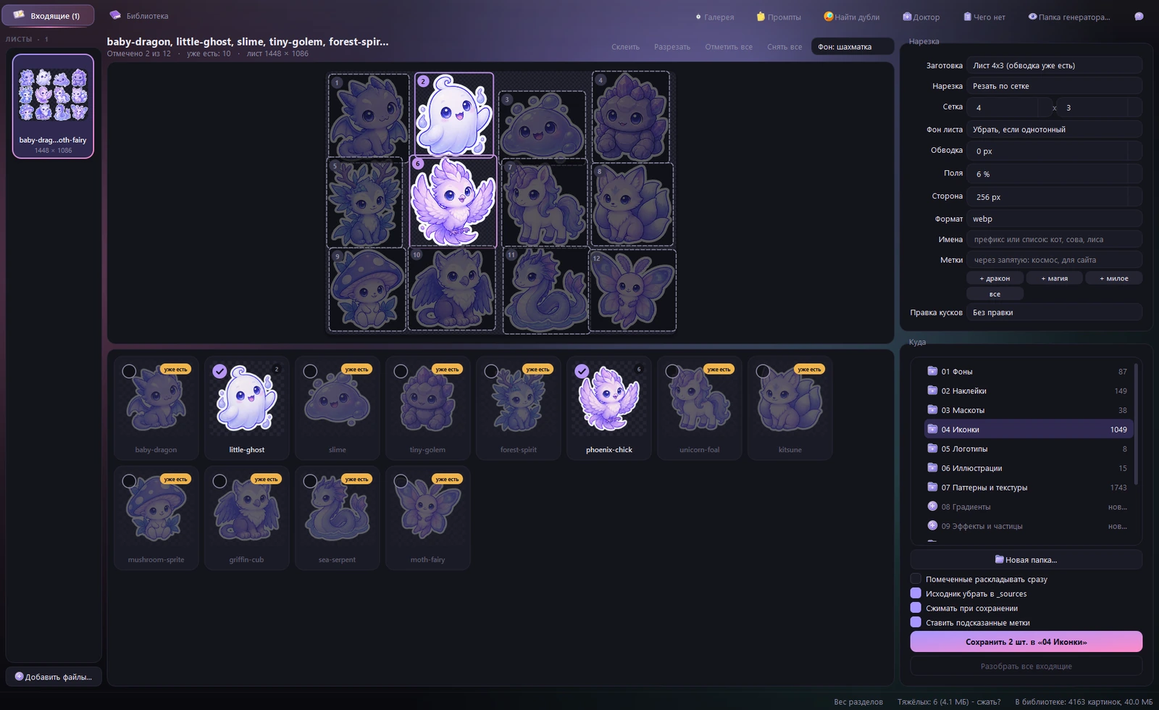
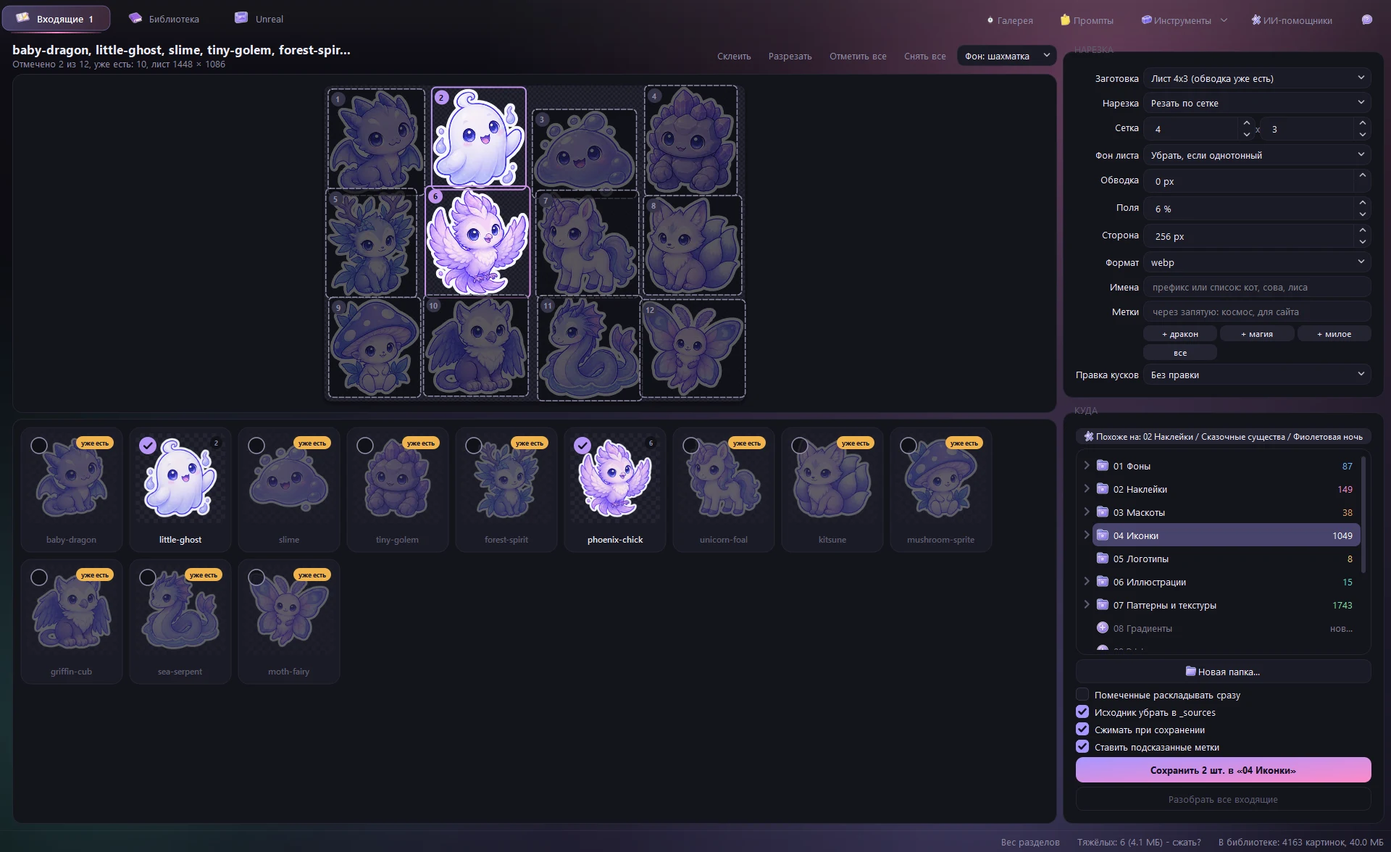
README: новые снимки окна (вкладка Unreal, 3D-просмотр, комната, палитра, светлая тема), три вкладки, 64 теста, что уходит в сеть

Changed region(s): [[0.0, 0.0, 1.0, 1.0]]

diff --git a/README.md b/README.md
@@ -10,18 +10,20 @@
 
 Нарезка листов 4x3 с предпросмотром, раскладка по разделам и палитрам, поиск по смыслу на русском<br>
 подсказка меток и раздела, умные папки, нейросети: любой фон прочь, чёткое увеличение x4<br>
-ИИ-помощники (Claude, Cursor) ищут, смотрят и правят картинки - всё видно в окне и отменяется
+ИИ-помощники (Claude, Cursor) ищут, смотрят и правят картинки - всё видно в окне и отменяется<br>
+вкладка «Unreal»: текстуры, HDRI, модели и свет для Unreal Engine с просмотром в 3D
 
 [![CI](https://github.com/moonlivedt-oss/photosMOONprojects/actions/workflows/ci.yml/badge.svg)](https://github.com/moonlivedt-oss/photosMOONprojects/actions/workflows/ci.yml)
 ![version](https://img.shields.io/badge/version-2.3.0-cba6f7)
 ![python](https://img.shields.io/badge/Python-3.14-3776AB?logo=python&logoColor=white)
 ![qt](https://img.shields.io/badge/PyQt6-окно-41CD52?logo=qt&logoColor=white)
-![tests](https://img.shields.io/badge/тесты-53%20ok-a6e3a1)
-![images](https://img.shields.io/badge/картинок-4160-89b4fa)
+![tests](https://img.shields.io/badge/тесты-64%20ok-a6e3a1)
+![images](https://img.shields.io/badge/картинок-4163-89b4fa)
+![unreal](https://img.shields.io/badge/Unreal-ассеты%20CC0-313244)
 ![mcp](https://img.shields.io/badge/MCP-ИИ--помощники-d97757)
 ![license](https://img.shields.io/badge/код-MIT-green)
 
-<img src="_docs/screenshots/hero.webp" alt="Окно библиотеки: дерево разделов слева, плитки наклеек в середине, справа просмотр дракончика с цветами и подсказкой метки" width="880">
+<img src="_docs/screenshots/hero.webp" alt="Окно библиотеки: слева карточки быстрого доступа и дерево разделов с цветными числами, в середине плитки сказочных наклеек с розовой чертой раздела, справа дракончик крупно, его цвета и подсказка метки «дракон»" width="880">
 
 <sub>Одна папка, окно на PyQt6, ядро на Pillow и numpy, поиск по смыслу через onnxruntime</sub>
 
@@ -36,12 +38,12 @@ py -3.14 -m pip install PyQt6 pillow numpy onnxruntime
 py -3.14 _tools/get_models.py      # модели нейросетей, ~460 МБ, один раз (можно частями: clip, bg, upscale)
 ```
 
-Затем запусти **`Library.cmd`** - откроется окно с двумя вкладками: «Входящие» и «Библиотека».
+Затем запусти **`Library.cmd`** - откроется окно с тремя вкладками: «Входящие», «Библиотека» и «Unreal».
 
 Отдельно:
 
 ```bash
-_tools\run-tests.cmd                            # все тесты (53 проверки, окно не открывается)
+_tools\run-tests.cmd                            # все тесты (64 проверки, окно не открывается)
 py -3.14 _tools/cli.py gallery                  # пересобрать Gallery.html - вся библиотека в браузере
 py -3.14 _tools/cli.py cut лист.png --grid 4x3  # нарезать лист без окна
 ```
@@ -114,18 +116,23 @@ py -3.14 _tools/cli.py cut лист.png --grid 4x3  # нарезать лист 
 ---
 
 <div align="center">
-<img src="_docs/screenshots/inbox.webp" alt="Вкладка «Входящие»: лист 4x3 с рамками кусков, ниже куски с отметками «уже есть», справа настройки нарезки и подсказки меток «дракон, магия, милое»" width="820">
+<img src="_docs/screenshots/inbox.webp" alt="Вкладка «Входящие»: лист 4x3 сказочных существ с рамками кусков, десять кусков помечены «уже есть», отмечены только два новых, справа настройки нарезки, подсказки меток «дракон, магия, милое» и «Похоже на: 02 Наклейки / Сказочные существа»" width="820">
 <br><sub>Входящие: лист режется по сетке, повторы помечены «уже есть», справа - подсказанные метки</sub>
 </div>
 
 <div align="center">
-<img src="_docs/screenshots/semantic.webp" alt="Поиск по смыслу «уютная ночная улица с фонарями»: 17 ночных сцен, справа выбранный ночной рынок с фонарями и подсказки меток" width="820">
-<br><sub>Поиск по смыслу: в именах файлов нет ни «уютной», ни «улицы»</sub>
+<img src="_docs/screenshots/semantic.webp" alt="Поиск по смыслу «уютная ночная улица с фонарями»: сверху полоса из пяти подходящих ассетов Unreal (HDRI ночных улиц и уличный фонарь), ниже 17 ночных сцен, справа дождливая неоновая улица и подсказки меток «дождь, улица, город, ночь»" width="820">
+<br><sub>Поиск по смыслу: в именах файлов нет ни «уютной», ни «улицы»; сверху - подходящие ассеты Unreal</sub>
 </div>
 
 <div align="center">
-<img src="_docs/screenshots/sets.webp" alt="Вид «Наборы»: 24 набора обложками по 12 картинок с числом палитр" width="820">
+<img src="_docs/screenshots/sets.webp" alt="Вид «Наборы»: наборы обложками по 12 картинок, в подписи число палитр и картинок" width="820">
 <br><sub>Наборы: каждый набор одной обложкой, в подписи - палитры и число картинок</sub>
+</div>
+
+<div align="center">
+<img src="_docs/screenshots/light.webp" alt="Светлая тема: та же библиотека на светлом фоне, плитки морских наклеек, справа рыба-клоун крупно" width="820">
+<br><sub>Светлая тема и акцент на выбор: «Инструменты» -> «Оформление», меняется сразу</sub>
 </div>
 
 ---
@@ -148,6 +155,11 @@ py -3.14 _tools/cli.py cut лист.png --grid 4x3  # нарезать лист 
 разница, SSIM), **векторизация в SVG** (три варианта рядом), **оформление** - тёмная или светлая тема и
 акцент на выбор.
 
+<div align="center">
+<img src="_docs/screenshots/palette.webp" alt="Окно «Палитра из картинки»: слева образец - ночной рынок с фонарями и шесть его цветов, справа двенадцать лесных зверей, перекрашенных в эти фиолетово-розовые цвета" width="760">
+<br><sub>Палитра из картинки: цвета ночной сцены, и лесные звери сразу в них перекрашены</sub>
+</div>
+
 ### Горячие клавиши (все - в справке, F1)
 
 | Клавиши | Действие |
@@ -165,6 +177,11 @@ py -3.14 _tools/cli.py cut лист.png --grid 4x3  # нарезать лист 
 | `F1` | справка: всё, что умеет окно, с поиском |
 
 ## Ассеты для Unreal Engine
+
+<div align="center">
+<img src="_docs/screenshots/unreal.webp" alt="Вкладка «Unreal»: слева карточки видов (текстуры, HDRI, модели, свет IES) с числом и весом и темы «Дом» по назначению, в середине 43 стула и кресла карточками, справа выбранный стул вращается в живом 3D и подсказка «Как в Unreal»" width="820">
+<br><sub>Вкладка «Unreal»: «Дом» по назначению, живой 3D справа, плитку можно бросить прямо в Content Browser</sub>
+</div>
 
 Вкладка **«Unreal»** (Ctrl+3) - отдельная полка для 3D: она не смешивается с картинками библиотеки.
 Всё лежит в `_Unreal/<вид>/<тема>/<имя>/`: файлы ассета, `preview.webp` и `asset.json` (источник,
@@ -226,6 +243,21 @@ PyQt6, отдельно ставить ничего не надо). Слева -
 | **Свет** | модель и текстура освещаются любым скачанным HDRI (студийный - по умолчанию), небо фоном, яркость, поворот |
 
 «Снимок» сохраняет то, что видно, в PNG.
+
+<div align="center">
+<img src="_docs/screenshots/viewer-texture.webp" alt="Просмотр в 3D: текстура кирпича с мхом на шаре со светом и тенью, слева лента ассетов, справа фигура, карты по отдельности (цвет, нормаль, шероховатость, металл, AO, высота), свет и сведения" width="49%">
+<img src="_docs/screenshots/viewer-model.webp" alt="Просмотр в 3D: деревянный стул на полу с тенью, справа примерка текстуры, свет и подсказка «Как в Unreal»" width="49%">
+<br><sub>Просмотр в 3D: текстура на шаре и каждая карта отдельно; модель на полу с тенью</sub>
+</div>
+
+**Комната** (подборка -> «Комната» или правый щелчок -> «Собрать комнату из выбранного»): мебель расставляется
+в комнате в настоящем масштабе, пол и стены - из скачанных текстур, свет - из HDRI; «Расставить иначе»,
+снимок и импорт в Unreal разом.
+
+<div align="center">
+<img src="_docs/screenshots/room.webp" alt="Комната: пол из ковролина, три стены из бетона, в комнате кровать, скамья, столик, канделябры и стулья, вверху выбор пола, стен и света" width="760">
+<br><sub>Черновик интерьера перед Unreal: восемь моделей, комната 6,1 x 7,1 м</sub>
+</div>
 
 Темы: лес и природа, город, интерьер, индустрия и sci-fi, средневековье и фэнтези, пустыня и скалы, зима,
 ночь и закат, студия; модели для дома - отдельными темами «Дом - мебель», «кухня и посуда», «декор»,
@@ -400,21 +432,30 @@ _tools/
     signatures.py       отпечатки: «уже есть», похожие, цвет, дубли
     sorting.py          заготовки нарезки, метки в имени, запись в разделы
     prompts.py          данные Prompts.html (через node)
+    unreal.py           ассеты Unreal: темы, Poly Haven, ambientCG, Kenney, Quaternius, загрузка на место
+    unreal_sem.py       поиск по смыслу по ассетам; unreal_extra.py - цвета превью и проверка ассетов
+    unreal_import.py    копия файлов и import_to_unreal.py (настройки текстур, материал M_<имя>)
+    fbx_colors.py       цвета материалов Quaternius из .mtl прямо в FBX
   ui/                   окно (PyQt6)
     main_window.py      главное окно, отмена/возврат, приём файлов, main()
     inbox_tab.py        вкладка «Входящие»
     library_tab.py      вкладка «Библиотека», быстрый просмотр, умные папки, поиск по картинке
     semantic.py, signatures.py - то же, что в library, но досчёт в фоне
+    unreal_tab.py       вкладка «Unreal»; unreal_nav.py, unreal_tiles.py, unreal_catalog.py - панель, карточки, каталог
+    viewer3d.py + .qml  просмотр в 3D на Qt Quick 3D; room3d.py + .qml - комната; render_previews.py - превью моделей
+    tools_dialogs.py    палитра из картинки, сравнение двух картинок, векторизация, оформление
     agents.py           окно «ИИ-помощники»; help.py - справка
     editor.py, compress.py, export.py, dupes.py, weight.py, doctor.py, missing.py - окна действий
     widgets.py, thumbnails.py, animations.py, theme.py, common.py - общее для окна
   tests/                unittest: эталонные листы, нарезка, правка, база, метки, CLIP;
-                        test_api.py - операции для помощников и протокол MCP на временной библиотеке
+                        test_api.py - операции для помощников и протокол MCP на временной библиотеке;
+                        test_unreal.py, test_fbx_colors.py - ассеты Unreal без сети
   cli/                  .cmd для перетаскивания файлов
 ```
 
 Не в репозитории (`.gitignore`): `_tools/_models` (модели), `_tools/_thumbs` (кэш миниатюр),
-`_tools/library.db` (база этого компьютера), `_tools/settings.json`, `Gallery.html`, `_tools/done.js`.
+`_tools/library.db` (база этого компьютера), `_tools/settings.json`, `Gallery.html`, `_tools/done.js`,
+`_tools/_ui` (стрелки стилей - окно пишет их цветом темы), `_Unreal/` и кэши `_tools/_unreal_*`.
 
 </details>
 
@@ -435,8 +476,10 @@ _tools/
 
 ## Приватность
 
-Окно **не ходит в сеть**: картинки, метки, поиск по смыслу - всё считается на этом компьютере.
-Сеть нужна только один раз - `get_models.py` качает модели с Hugging Face и GitHub. Ничего не отправляется.
+Картинки библиотеки **не уходят в сеть**: метки, поиск по смыслу, правка - всё считается на этом компьютере.
+Сеть нужна в двух случаях, и оба - только скачивание: `get_models.py` один раз качает модели с Hugging Face
+и GitHub, а вкладка «Unreal» по кнопкам «Скачать ещё...», «Каталог...» и «Перекачать» берёт ассеты с Poly Haven,
+ambientCG, Kenney и открытых папок Quaternius на Google Drive. Ничего из библиотеки не отправляется.
 
 Сервер для помощников тоже работает локально и сам ничего не отправляет. Но то, что помощник
 смотрит (`view`, предпросмотр правки) или читает (имена, метки), уходит его модели - как любой

diff --git a/README.en.md b/README.en.md
@@ -10,18 +10,20 @@
 
 4x3 sheet cutting with preview, filing by section and palette, semantic search in Russian and English<br>
 tag and folder suggestions, smart folders, neural background removal and x4 upscaling<br>
-AI assistants (Claude, Cursor) search, view and edit pictures - every change shows up in the window and can be undone
+AI assistants (Claude, Cursor) search, view and edit pictures - every change shows up in the window and can be undone<br>
+an "Unreal" tab: textures, HDRIs, models and lights for Unreal Engine with a 3D viewer
 
 [![CI](https://github.com/moonlivedt-oss/photosMOONprojects/actions/workflows/ci.yml/badge.svg)](https://github.com/moonlivedt-oss/photosMOONprojects/actions/workflows/ci.yml)
 ![version](https://img.shields.io/badge/version-2.3.0-cba6f7)
 ![python](https://img.shields.io/badge/Python-3.14-3776AB?logo=python&logoColor=white)
 ![qt](https://img.shields.io/badge/PyQt6-window-41CD52?logo=qt&logoColor=white)
-![tests](https://img.shields.io/badge/tests-53%20ok-a6e3a1)
-![images](https://img.shields.io/badge/pictures-4160-89b4fa)
+![tests](https://img.shields.io/badge/tests-64%20ok-a6e3a1)
+![images](https://img.shields.io/badge/pictures-4163-89b4fa)
+![unreal](https://img.shields.io/badge/Unreal-CC0%20assets-313244)
 ![mcp](https://img.shields.io/badge/MCP-AI%20assistants-d97757)
 ![license](https://img.shields.io/badge/code-MIT-green)
 
-<img src="_docs/screenshots/hero.webp" alt="Library window: section tree on the left, sticker tiles in the middle, a baby dragon preview with colors and a tag suggestion on the right" width="880">
+<img src="_docs/screenshots/hero.webp" alt="Library window: quick access cards and a section tree with colored counts on the left, fairy-tale sticker tiles with a pink section stripe in the middle, a large baby dragon with its colors and a tag suggestion on the right" width="880">
 
 <sub>One folder, PyQt6 window, Pillow and numpy core, semantic search on onnxruntime</sub>
 
@@ -36,11 +38,11 @@ py -3.14 -m pip install PyQt6 pillow numpy onnxruntime
 py -3.14 _tools/get_models.py      # neural models, ~460 MB, once (or by part: clip, bg, upscale)
 ```
 
-Then run **`Library.cmd`** - a window opens with two tabs: "Входящие" (Inbox) and "Библиотека" (Library).
+Then run **`Library.cmd`** - a window opens with three tabs: "Входящие" (Inbox), "Библиотека" (Library) and "Unreal".
 The interface is in Russian.
 
 ```bash
-_tools\run-tests.cmd                            # all tests (53 checks, no window)
+_tools\run-tests.cmd                            # all tests (64 checks, no window)
 py -3.14 _tools/cli.py gallery                  # rebuild Gallery.html - the whole library in a browser
 py -3.14 _tools/cli.py cut sheet.png --grid 4x3  # cut a sheet without the window
 ```
@@ -107,8 +109,45 @@ suggested, and everything is filed into the right section and palette.
 </div>
 
 <div align="center">
-<img src="_docs/screenshots/semantic.webp" alt="Semantic search for a cozy night street with lanterns: 17 night scenes" width="820">
-<br><sub>Semantic search: none of the query words are in the file names</sub>
+<img src="_docs/screenshots/semantic.webp" alt="Semantic search for a cozy night street with lanterns: a strip of five matching Unreal assets on top, 17 night scenes below" width="820">
+<br><sub>Semantic search: none of the query words are in the file names; matching Unreal assets on top</sub>
+</div>
+
+## Unreal Engine assets
+
+<div align="center">
+<img src="_docs/screenshots/unreal.webp" alt="Unreal tab: kind cards and home sections on the left, 43 chairs and armchairs as cards in the middle, the selected chair spinning in a live 3D view on the right" width="820">
+<br><sub>The "Unreal" tab: home models by purpose, live 3D on the right, drag a tile into the Content Browser</sub>
+</div>
+
+The **Unreal** tab (Ctrl+3) keeps 3D assets apart from the pictures, in `_Unreal/<kind>/<theme>/<name>/` (not in git):
+PBR textures (DirectX normal, packed ARM), HDRI skies, FBX models and 12 generated IES light profiles. Assets are
+CC0 from [Poly Haven](https://polyhaven.com), [ambientCG](https://ambientcg.com), [Kenney](https://kenney.nl) and
+[Quaternius](https://quaternius.com). The tab has semantic search, a Poly Haven catalog, collections, filters by
+polycount and color, re-download in 1K/2K/4K and a one-click import script for Unreal (`import_to_unreal.py`:
+texture settings and an `M_<name>` material).
+
+<div align="center">
+<img src="_docs/screenshots/viewer-texture.webp" alt="3D viewer: a mossy brick texture on a lit sphere, each map viewable separately" width="49%">
+<img src="_docs/screenshots/viewer-model.webp" alt="3D viewer: a wooden chair on a floor with a shadow" width="49%">
+<br><sub>3D viewer on Qt Quick 3D: texture on a sphere with every map separately; a model on a floor with a shadow</sub>
+</div>
+
+<div align="center">
+<img src="_docs/screenshots/room.webp" alt="Room draft: carpet floor, concrete walls, a bed, a bench, a table, candelabras and chairs at real scale" width="760">
+<br><sub>Room draft from a collection: real-scale furniture, floor and walls from downloaded textures, HDRI light</sub>
+</div>
+
+## Tools and themes
+
+The "Инструменты" (Tools) menu: duplicates, doctor, missing sets, folder weights, **palette from a picture** (and
+recoloring other pictures into it), **comparing two versions** (slider, difference, SSIM), **SVG tracing** with
+three variants side by side and a **light or dark theme** with five accents.
+
+<div align="center">
+<img src="_docs/screenshots/palette.webp" alt="Palette from a picture: a night lantern market sample and its six colors, twelve forest animals recolored into them" width="49%">
+<img src="_docs/screenshots/light.webp" alt="Light theme: the library with sea creature stickers on a light background" width="49%">
+<br><sub>Palette from a picture; the light theme</sub>
 </div>
 
 ---
@@ -186,8 +225,10 @@ action journal, search, tools for assistants); `_tools/mcp_server.py` - the MCP 
 
 ## Privacy
 
-The window **never goes online**: pictures, tags and semantic search are all computed locally.
-The network is needed once, for `get_models.py` to download the models from Hugging Face.
+Library pictures **never leave the computer**: tags, semantic search and edits are all computed locally.
+The network is used only for downloads: `get_models.py` fetches the models once (Hugging Face, GitHub), and the
+"Unreal" tab fetches assets from Poly Haven, ambientCG, Kenney and Quaternius' public Google Drive folders when you
+press its download buttons.
 The assistant server is local too and sends nothing by itself, but whatever an assistant views or reads
 goes to its model, like any file you show it.
 
